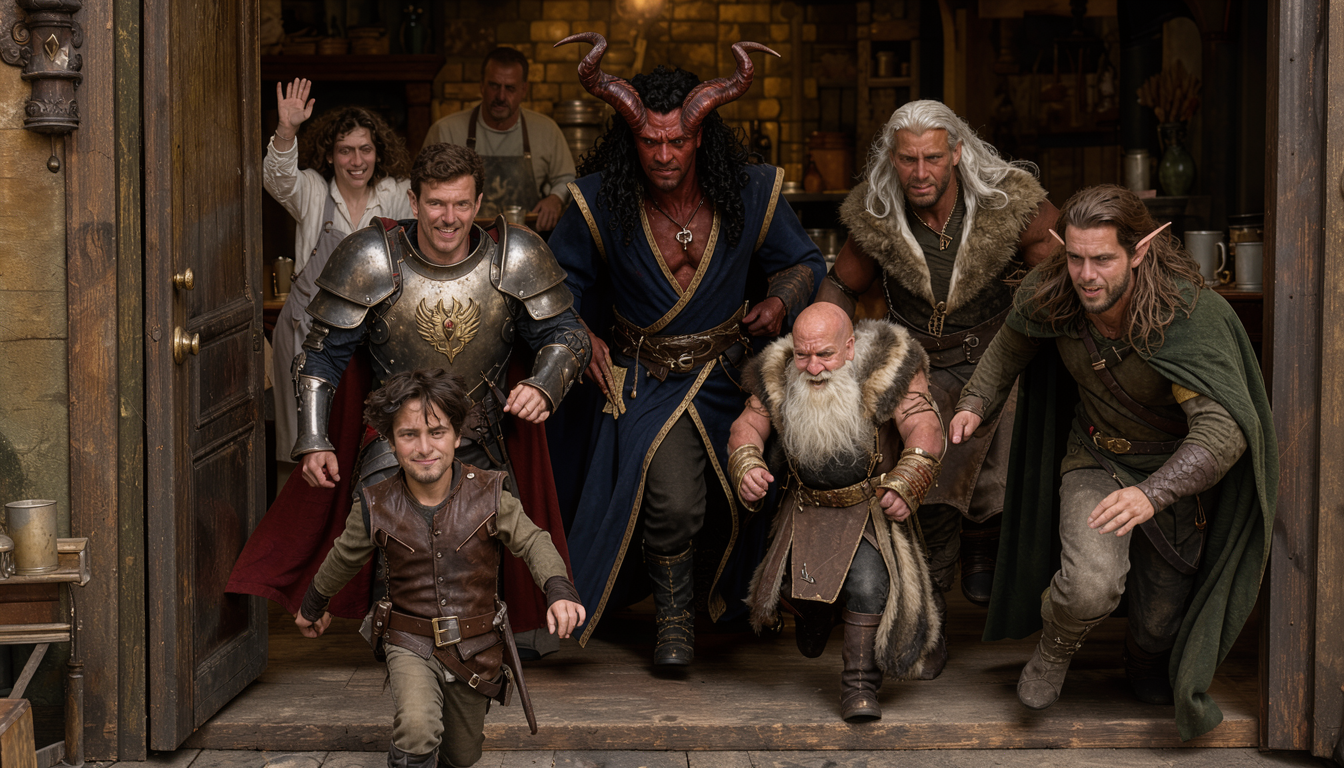
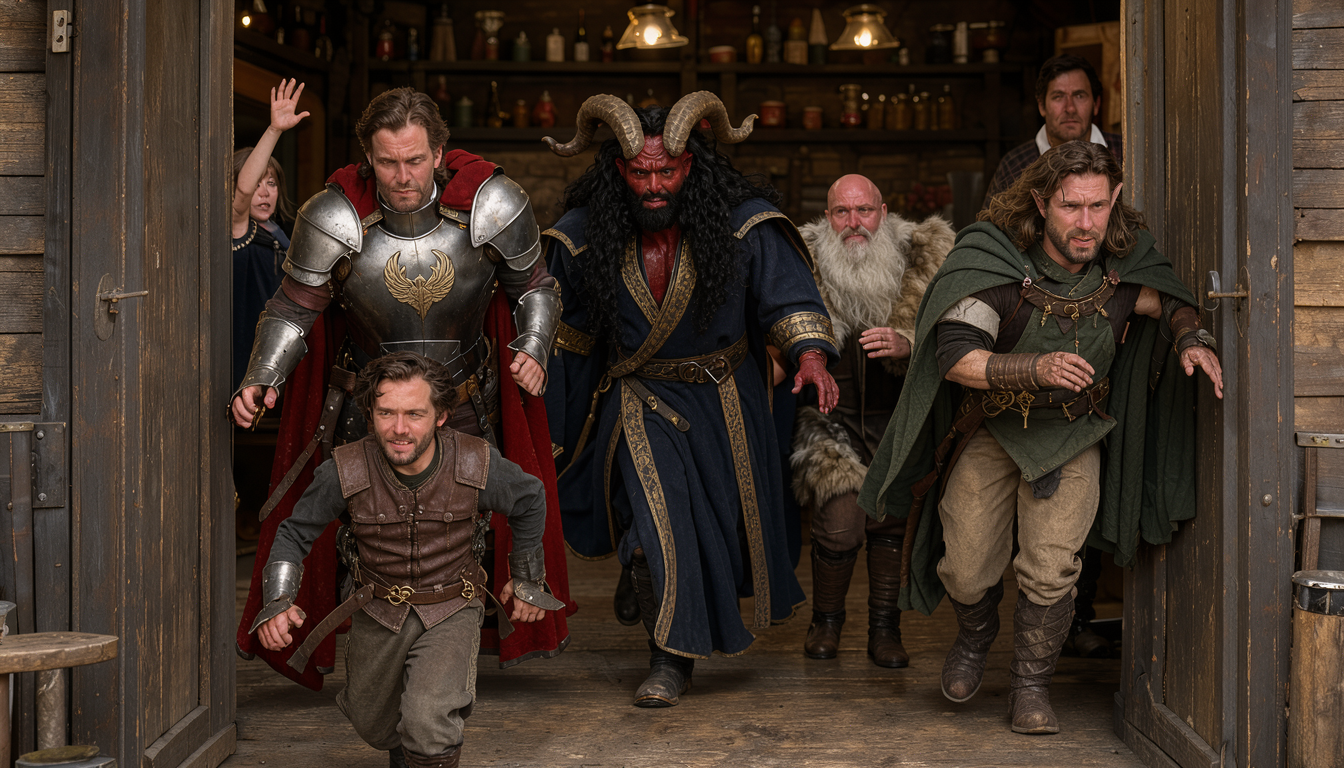
session01: Chip-free party scenes + composed Filvenar + transcript canon (Biggins/Lilly behavior, 3 apothecaries, no Albert)

diff --git a/character-bible/bible.md b/character-bible/bible.md
@@ -65,7 +65,7 @@ Undercover as Lady Filvenar in Session 1 (hair braided, corset + trousers disgui
 
 ### Water Bear — Owlbear, ONE creature
 `single owlbear creature, massive grizzly bear body with coarse brown fur and bear paws with claws, head REPLACED by owl head with round eyes and hooked beak and feathered ruff, walking on all fours like a bear, no wings, no second head, no separate owl`
-NEVER: bear holding owl, two heads, wings, white snowy owl alone, bear head + owl head side by side, standing upright on hind legs like a human (rears up only momentarily).
+NEVER: bear holding owl, two heads, wings, white snowy owl alone, bear head + owl head side by side, standing upright on hind legs like a human (rears up only momentarily), named Albert (S1 line was a slip, ignored per user 2026-11-03).
 
 ### Biggins Aulswim — Lilly's protector, ex-Talons of Justice assassin
 `tall adult human man in his 40s, slicked gray-streaked dark hair, sharp cheekbones, blue eyes, black three-piece suit with long coat, white shirt black tie, white gloves, pocket-watch chain, holding bloody dagger when hunting`
@@ -76,7 +76,8 @@ Default expression: cold and composed — professional ex-assassin calm.
 Behavior (transcript canon): coiled stillness — moves effortlessly, appraising eyes, often already where events happen (opens doors before arrivals); snoot and insult are performance, menace is real. Talon hook-and-claw tattoos inside both forearms (distinct from the guard diamond sigils — Rocketcandy recognizes the order). Casts spells (Hold Person witnessed). Parental devotion to Lilly; magical protection pact with Gulgrim. Unflappable dignity under indignity; dry menace toward threats, playful precision at home.
 
 ### Apothecary owner (S1 hooded figure) — NOT Biggins
-`kindly older gentleman, gray beard, dark hooded cloak, cob pipe` — fun-loving shopkeeper, owns local apothecary. Keep distinct from Biggins.
+`kindly older gentleman, gray beard, dark hooded cloak, cob pipe` — fun-loving shopkeeper who owns a local apothecary. Keep distinct from Biggins.
+Three separate people (user canon 2026-11-03): this hooded gentleman ≠ the Colorful Creations owner (P5.5) ≠ Thumba (the proprietor's contact). Do not merge them.
 
 ### Lady Filvenar — IS Lilly in disguise (Session 1, user canon)
 `adult woman, fire-red hair in a Celtic-knot braid to mid-back, gray eyes, pirate shirt + tight corset, trousers, ready stance — same face as Lilly (curly red hair, freckles)`

diff --git a/sessions/session01/script.md b/sessions/session01/script.md
@@ -1,6 +1,7 @@
 # Session 1 — Full Comic Script v1 (draft for edit)
 Source: sessions/session01/transcript.txt (69a905e, 69k chars)
 Style: approved S1P1 v7 + character-bible/bible.md. 5 pages, 20 panels. Narration + trimmed transcript dialogue.
+CANON (user 2026-11-03): Chip is OFF ON HIS OWN all session (solo thread P4.1–P4.4 + P5.5 apothecary). He appears in NO party scene — not the tavern, not the job board, not the chase, not the mansion. Five-strong party everywhere else.
 
 ## PAGE 1 — MARIGOLD'S INN
 **P1.1 — ESTABLISH.** Warm tavern interior, Marigold's Inn sign. Party around table eating/drinking.
